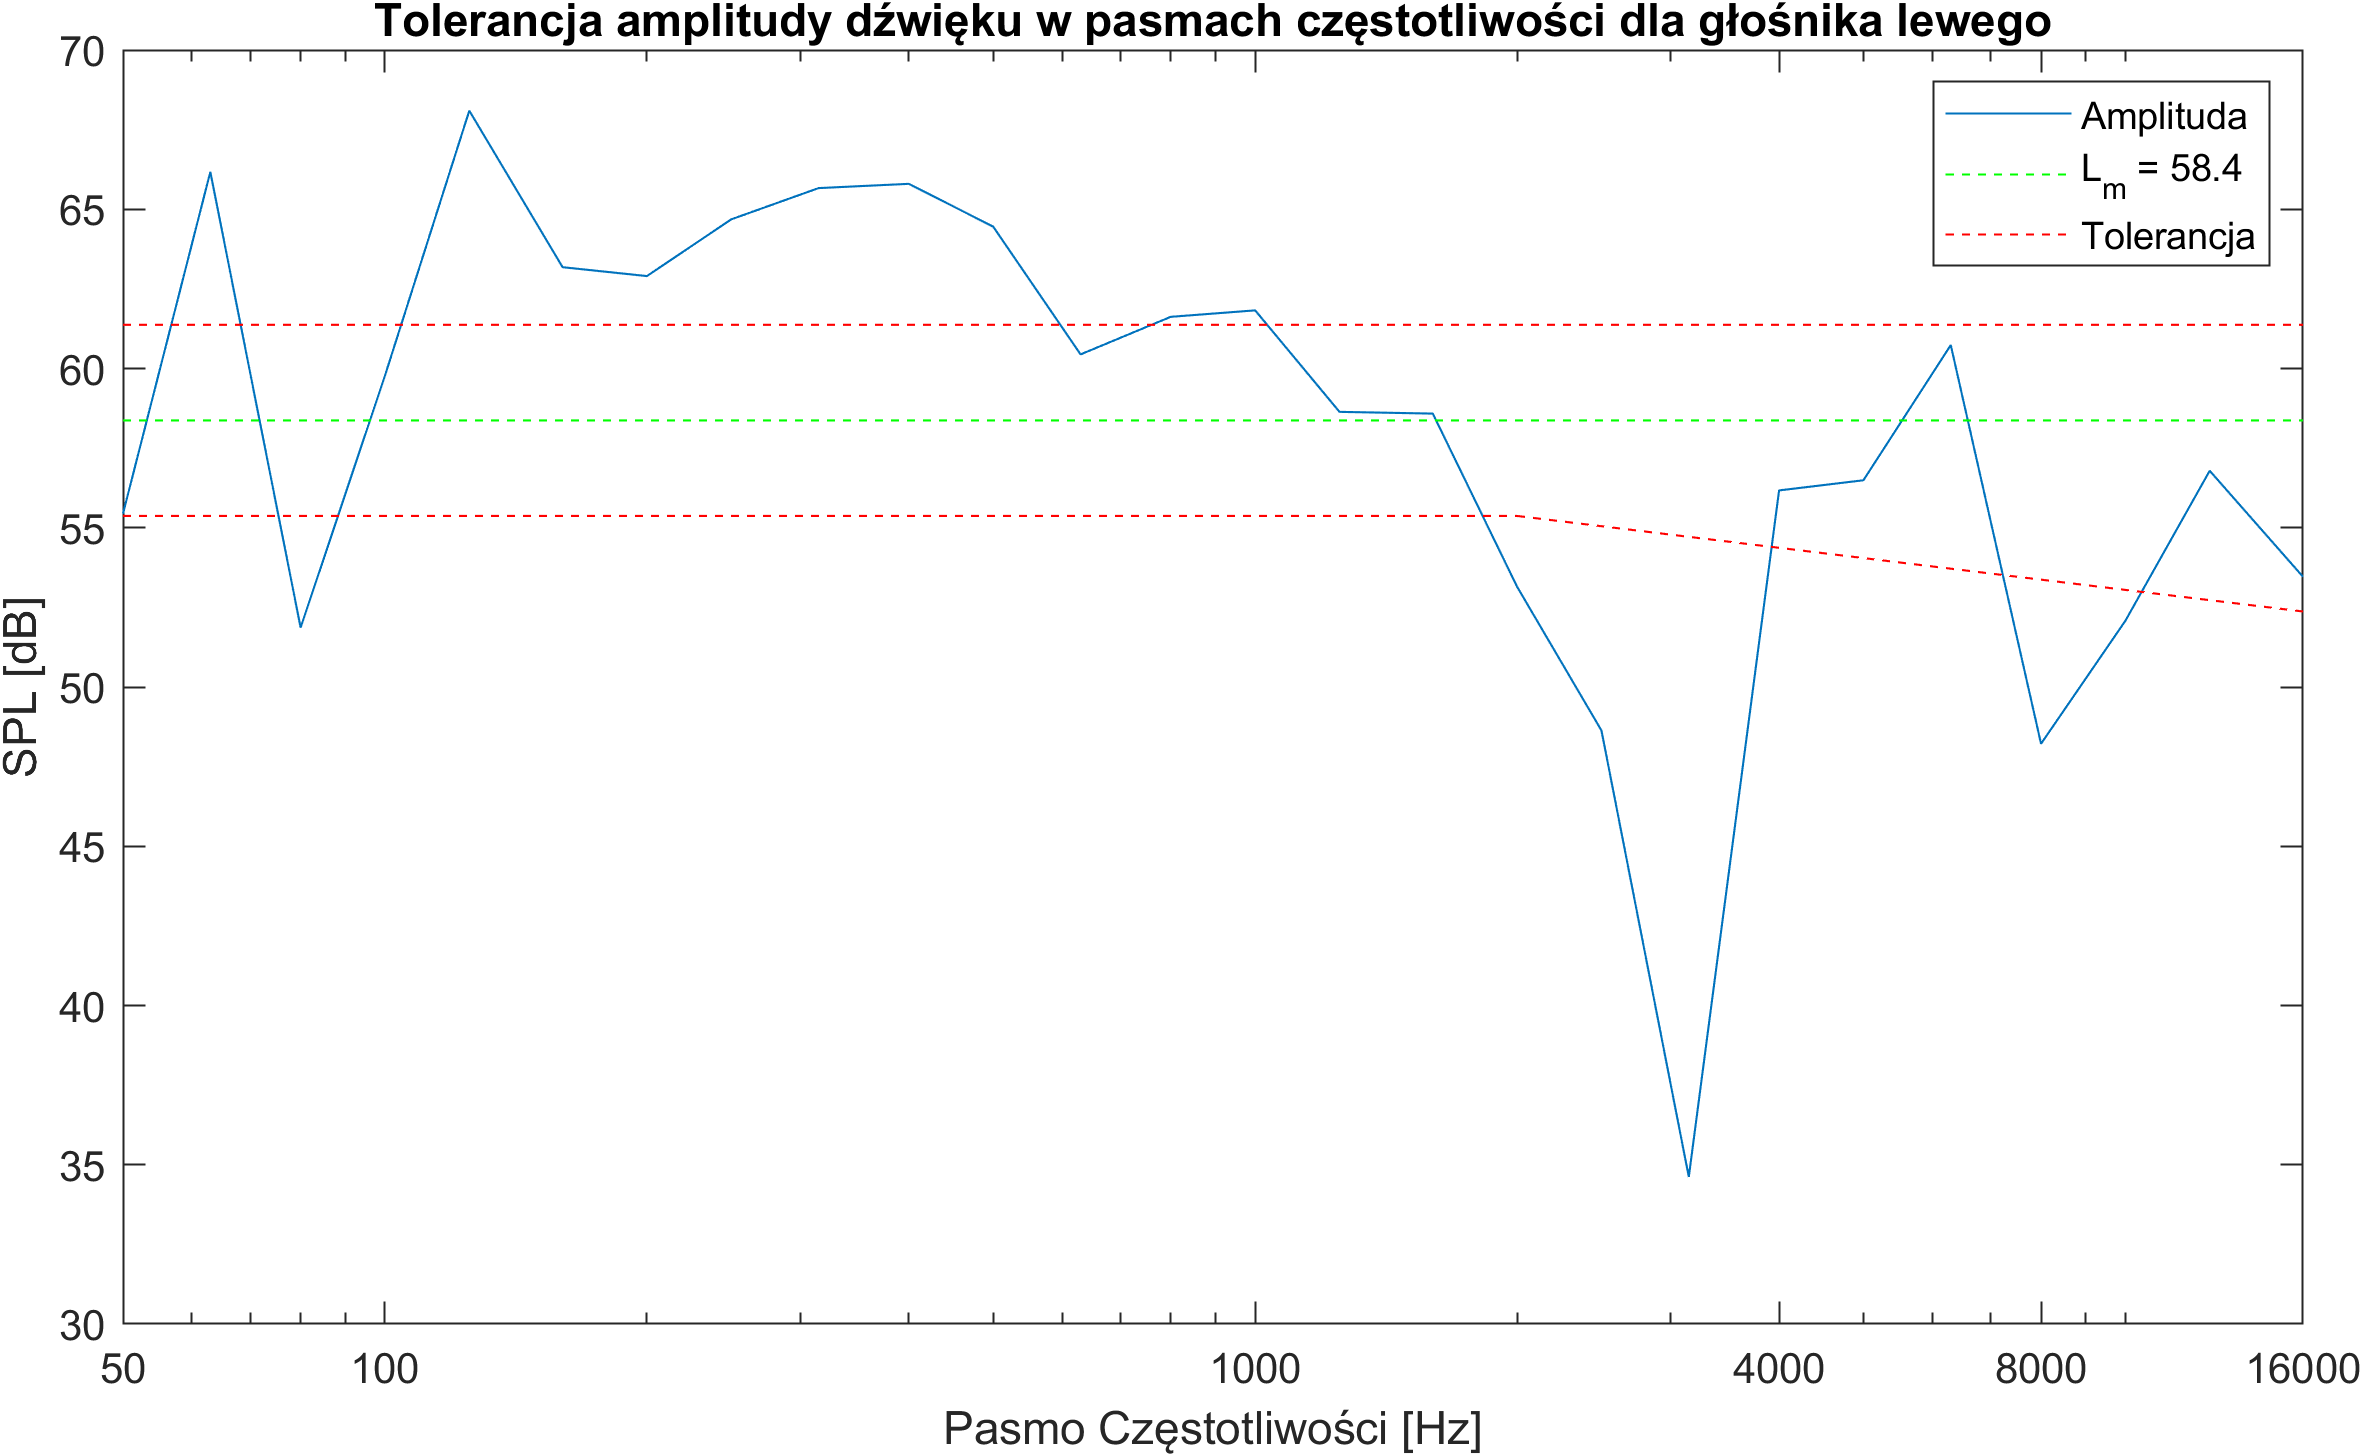
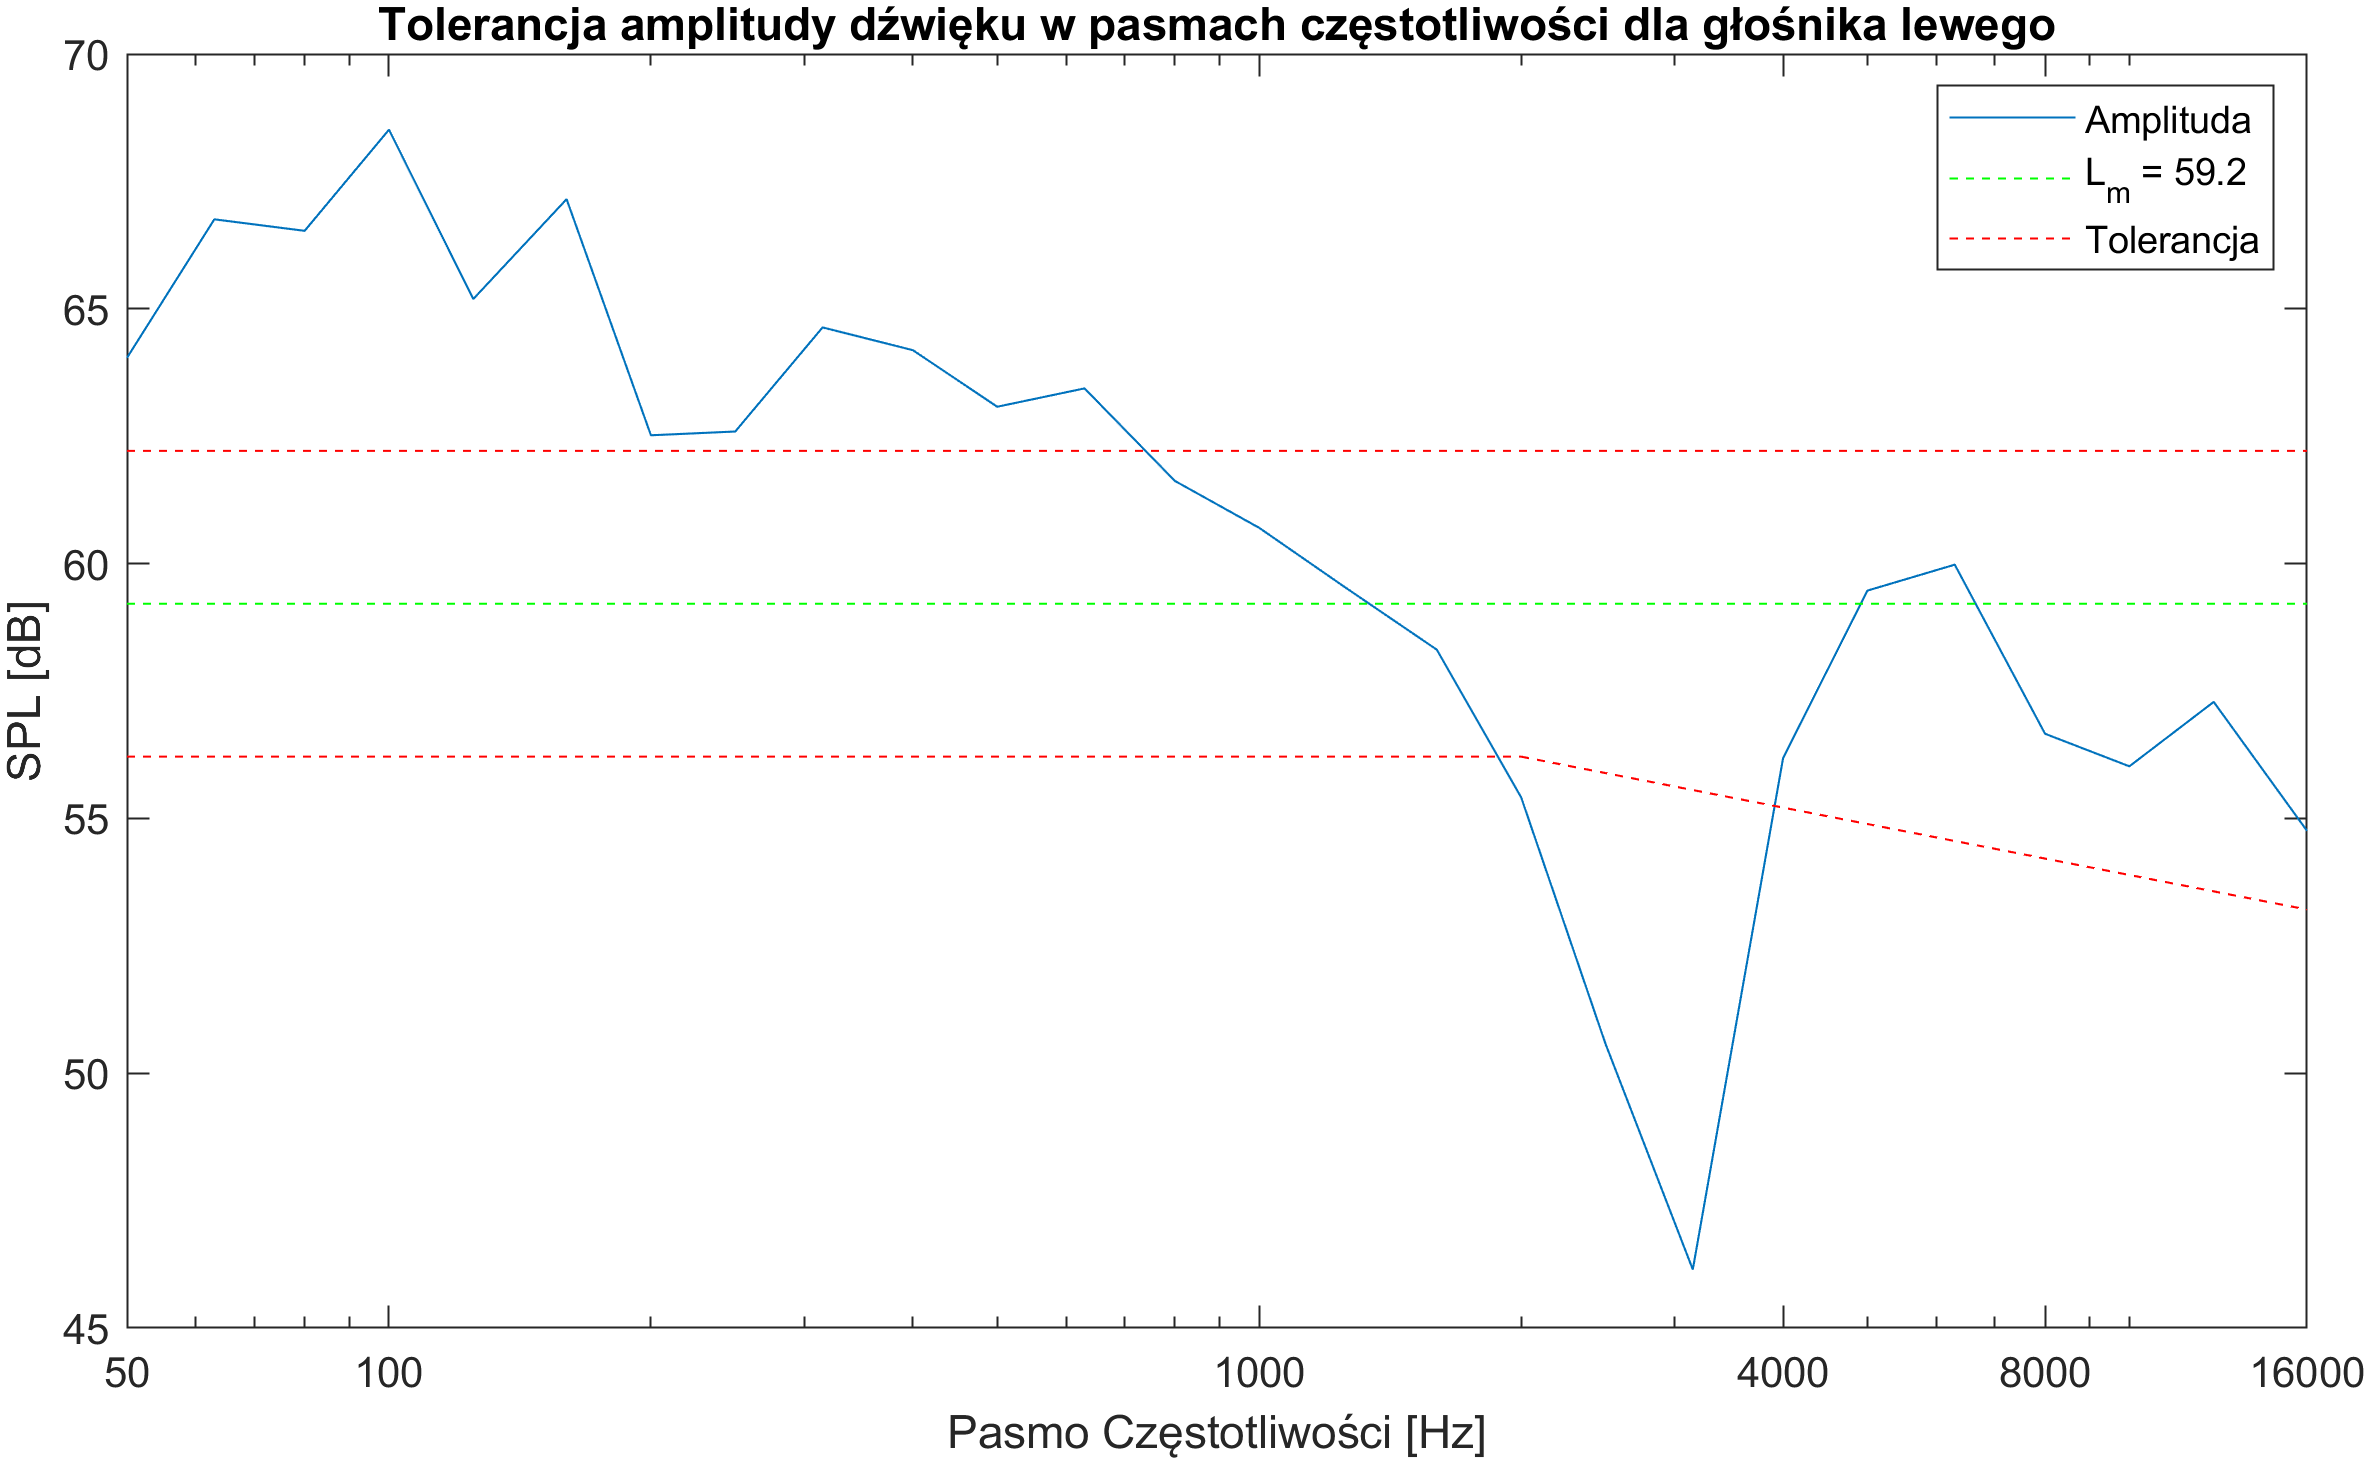
poprawka

diff --git a/1b/amplitude.m b/1b/amplitude.m
@@ -1,11 +1,11 @@
 close all
 
-load("SPL_data.mat");
+load("SPL_data_tercje_tercje.mat");
 
-dane = LEFTGR1;
+dane = RIGHTGR1;
 
-dla = "głośnika lewego";
-name_postix = "l";
+dla = "głośnika prawego";
+name_postix = "r";
 
 % semilogx(dane{:,"FreqHz"}, dane{:,"SPLdB"});
 % xlabel("Pasmo Częstotliwości [Hz]");
